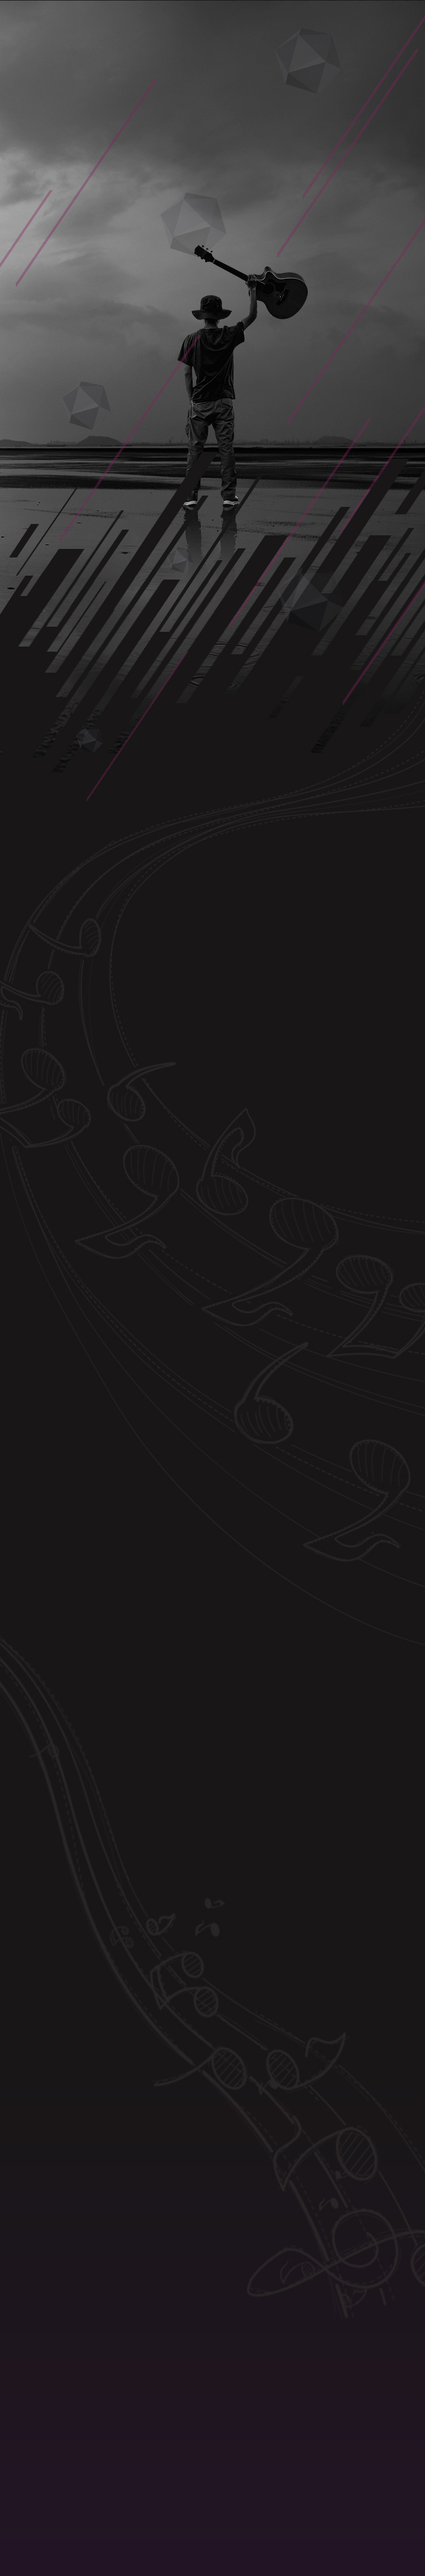
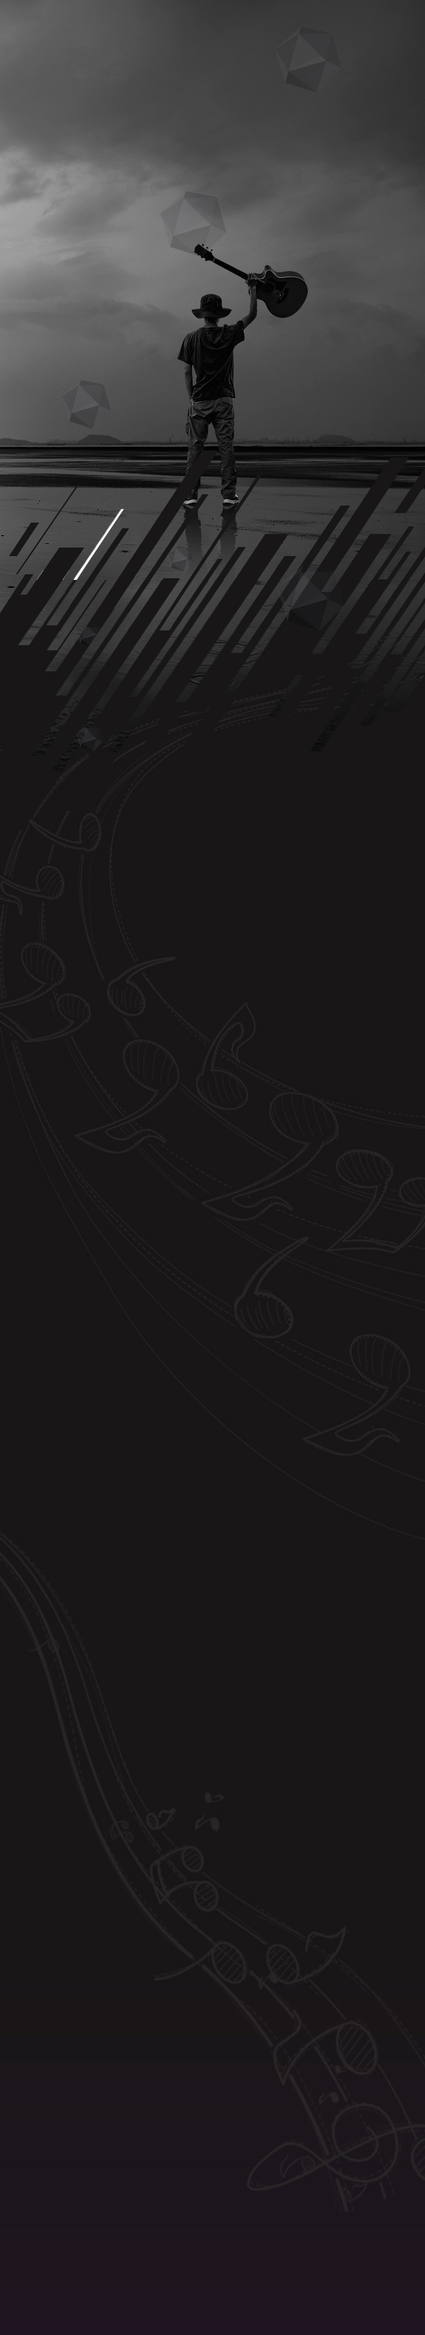
dd

Changed region(s): [[0.0, 0.0622, 1.0, 0.3111], [0.0, 0.0622, 0.184, 0.1244]]

diff --git a/index.html b/index.html
@@ -61,6 +61,14 @@
 
     <div class="mainIndex hide">
         <div class="mainBar relation" id="mainBar">
+
+            <!--增加光线滑动效果-->
+            <div class="moveLine"></div>
+
+
+
+
+
             <div class="barItem barItem-1"><img src="img/bar_item1_07.png" alt=""></div>
             <div class="barItem barItem-2"><img src="img/bar_item2_11.png" alt=""></div>
             <div class="barItem barItem-3"><img src="img/bar_item3_15.png" alt=""></div>
@@ -359,7 +367,7 @@
     panoZ.position(0, -200, -380).updateT();
     s.addChild(pano);
     s.addChild(panoB);
-    s.addChild(panoZ)
+    s.addChild(panoZ);
     //刷新场景
     requestAnimationFrame = window.requestAnimationFrame || window.mozRequestAnimationFrame || window.webkitRequestAnimationFrame || window.msRequestAnimationFrame || window.oRequestAnimationFrame ||
       function (callback) {
@@ -367,9 +375,8 @@
       };
     function go() {
       pano.rotate(0, 0.1, 0).updateT();
-      panoB.rotate(0, 0.12, 0).updateT();
-      panoZ.rotate(0, 0.13, 0).updateT();
-
+      panoB.rotate(0, 0.2, 0).updateT();
+      panoZ.rotate(0, 0.36, 0).updateT();
 //      requestAnimationFrame(go);
 //      scene.rotate(0, 1, 0).updateT();
 //      scene.p3.rotate(-1, 0, 0).updateT();
